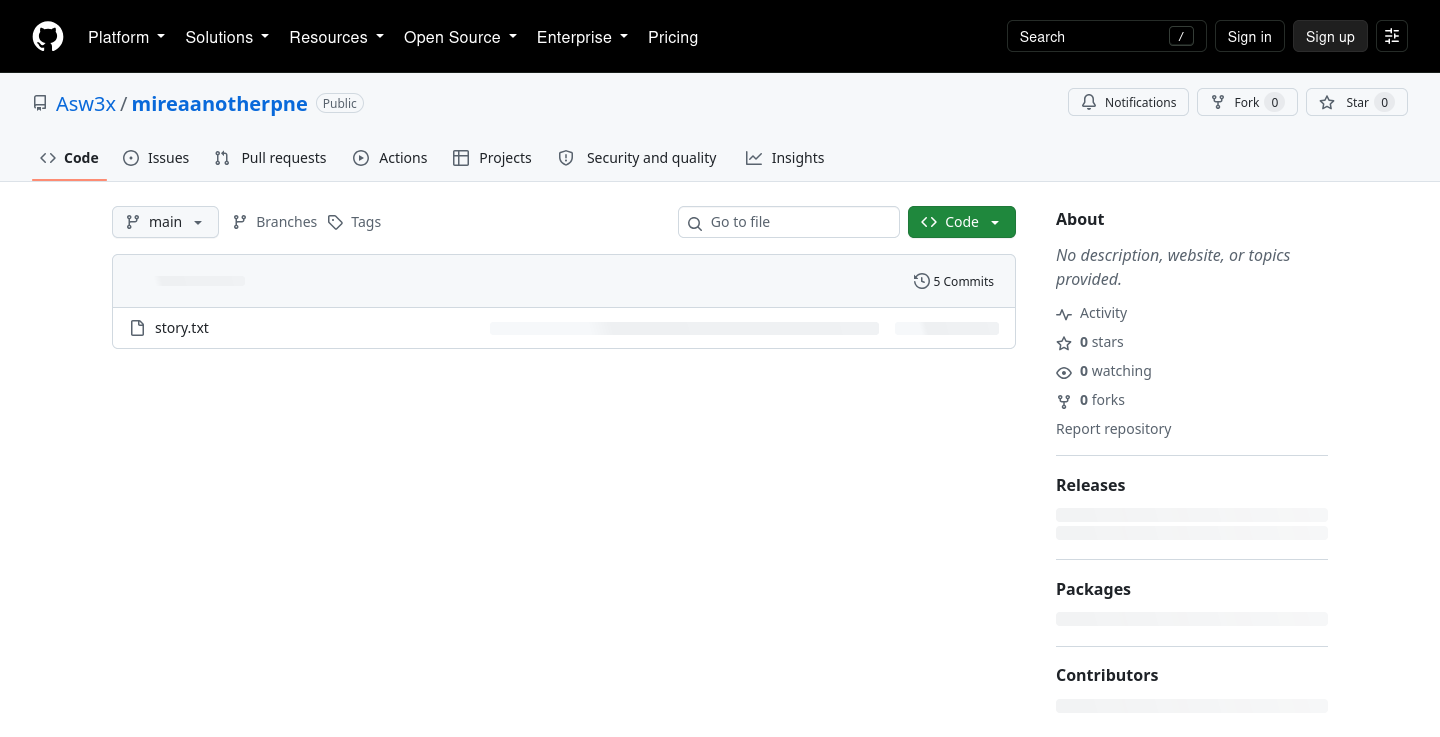
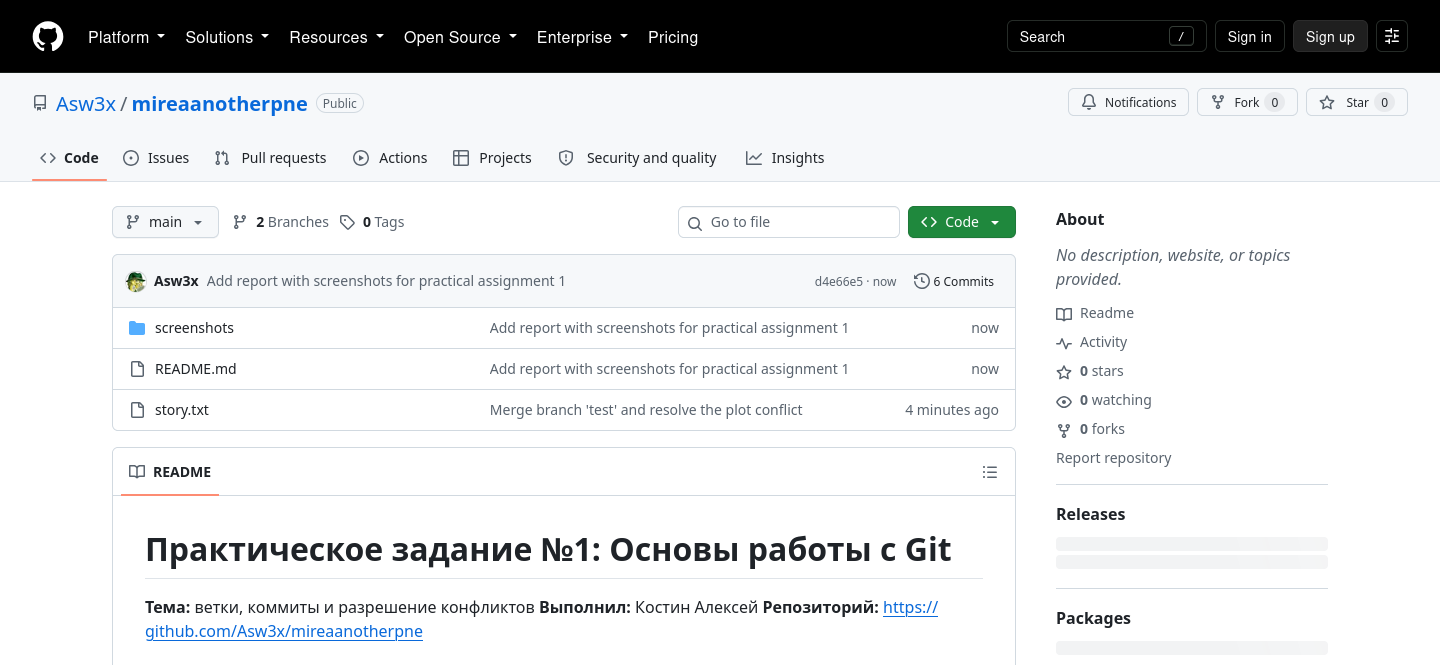
Fix report header line breaks and update repository screenshot

diff --git a/README.md b/README.md
@@ -1,7 +1,7 @@
 # Практическое задание №1: Основы работы с Git
 
-**Тема:** ветки, коммиты и разрешение конфликтов
-**Выполнил:** Костин Алексей
+**Тема:** ветки, коммиты и разрешение конфликтов<br>
+**Выполнил:** Костин Алексей<br>
 **Репозиторий:** https://github.com/Asw3x/mireaanotherpne
 
 ---
